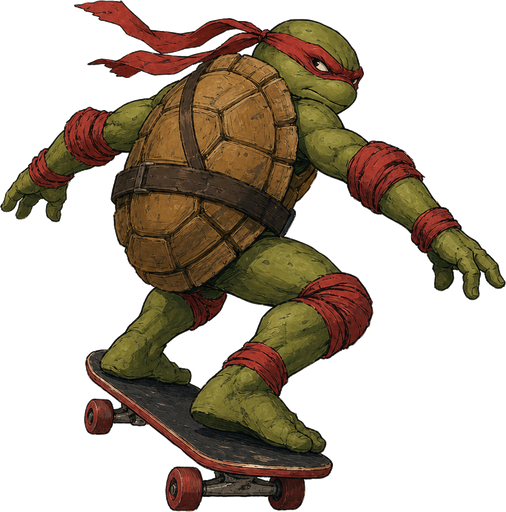
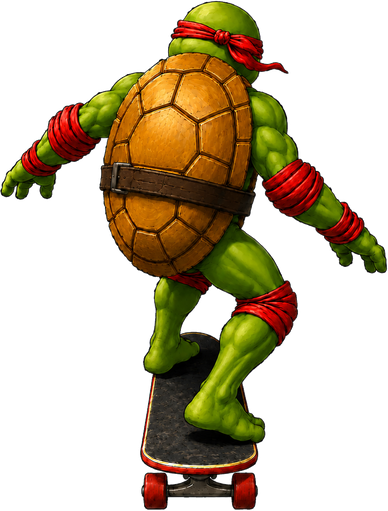
TmntSewerSlide: player sprite, sections and ride art update
Not from this session -- swept in at Amit's request to clear the tree.

diff --git a/TmntSewerSlide/src/entities/player.js b/TmntSewerSlide/src/entities/player.js
@@ -166,9 +166,20 @@ export function updatePlayerPosition(player) {
   const visualY = c.y + Math.sin(player.theta) * PLAYER_VISUAL_RADIUS;
   player.sprite.position.set(visualX, visualY, PLAYER_Z);
   player.shadow.position.set(visualX, visualY, PLAYER_Z);
-  // Cosmetic bank into the direction of travel (§5.2) -- in-plane billboard
-  // rotation only, never affects collision. Clamped so a hard lean reads as
-  // a clear tilt without ever fully rolling the sprite over.
-  const bank = THREE.MathUtils.clamp(-player.angularVel * 0.16, -0.5, 0.5);
-  player.sprite.material.rotation = bank;
+  // Radial pipe alignment (§5.2), not an arbitrary screen-space tilt: he's
+  // standing on the inside of a curved tube, so his "up" should always point
+  // from his position toward the tube's own central axis -- same as real
+  // gravity/normal-force on a pipe wall -- not just react to how fast he's
+  // turning. In-plane sprite rotation r that makes local "up" (0,1) point
+  // toward the tube center works out to r = theta + PI/2 (derived from the
+  // sprite shader's standard CCW rotation matrix): at the default resting
+  // theta = ARC_CENTER = -PI/2 this is exactly 0 (upright, as before);
+  // moving around the reachable arc continuously re-aligns him to whichever
+  // part of the pipe wall he's currently on.
+  const radialAlign = player.theta + Math.PI / 2;
+  // A small extra lean layered on top for an active turn -- carving a bit
+  // harder than just standing still at that wall position would. Secondary
+  // to the radial alignment above, not the primary source of tilt anymore.
+  const extraLean = THREE.MathUtils.clamp(-player.angularVel * 0.12, -0.35, 0.35);
+  player.sprite.material.rotation = radialAlign + extraLean;
 }

diff --git a/TmntSewerSlide/src/core/main.js b/TmntSewerSlide/src/core/main.js
@@ -228,12 +228,14 @@ function tick() {
       setPlayerVisible(player, true);
     }
 
-    // Gentle parallax + lookahead -- camera stays near the tunnel's local
-    // axis (same technique as Astro_Tunnel) while the spline bend baked
-    // into the wall mesh + rail/rings sells the curve.
-    camera.position.x = THREE.MathUtils.lerp(camera.position.x, player.x * 0.1, 0.08);
-    camera.position.y = THREE.MathUtils.lerp(camera.position.y, player.y * 0.1, 0.08);
-    camera.lookAt(player.x * 0.05, player.y * 0.05, PLAYER_Z - 10);
+    // Camera position stays fixed on the tunnel's central axis -- no
+    // parallax follow of the player at all. Any camera movement tied to
+    // player position changes the true camera-to-character distance as he
+    // swings around the arc, which changes his apparent screen size; fixing
+    // the camera guarantees he's always rendered the same size regardless
+    // of where he is on the pipe. Only the look-at direction below still
+    // tracks him, which reframes the shot without touching distance/size.
+    camera.lookAt(player.x * 0.05, 4, PLAYER_Z - 10);
     keyLight.position.set(player.x * 1.1, player.y * 1.1, PLAYER_Z + 4);
   }
 

diff --git a/TmntSewerSlide/src/data/sectionsData.js b/TmntSewerSlide/src/data/sectionsData.js
@@ -15,7 +15,7 @@ export const SECTIONS = [
     key: 'stormDrain',
     label: 'STORM DRAIN',
     startSeconds: 0,
-    crossSection: 'partialArc',
+    crossSection: 'halfPipe', // testing the full 180 arc from run start, per direct request
     themeIndex: 0,
     speed: 0.1,
     obstacleSpacing: 30, // world units between waves
@@ -27,7 +27,7 @@ export const SECTIONS = [
     key: 'mainLine',
     label: 'MAIN LINE',
     startSeconds: 32,
-    crossSection: 'partialArc',
+    crossSection: 'halfPipe', // stays wide -- avoids narrow->wide->narrow whiplash across sections while testing
     themeIndex: 1,
     speed: 0.125,
     obstacleSpacing: 24,

diff --git a/TmntSewerSlide/src/data/playerSprite.js b/TmntSewerSlide/src/data/playerSprite.js
@@ -5,6 +5,7 @@
 export const PLAYER_SPRITE_URL = new URL('../assets/raph_ride.png', import.meta.url).href;
 export const PLAYER_HIT_SPRITE_URL = new URL('../assets/raph_hit.png', import.meta.url).href;
 export const PLAYER_PLACEHOLDER_COLOR = 0xff5a3c;
-// Natural aspect (height / width) of raph_ride.png (~506x512), so the
-// billboard doesn't stretch the art.
-export const PLAYER_ASPECT = 512 / 506;
+// Natural aspect (height / width) of raph_ride.png (388x511 -- new locked
+// back-view skater pose, §"changing the character" plan), so the billboard
+// doesn't stretch the art.
+export const PLAYER_ASPECT = 511 / 388;
